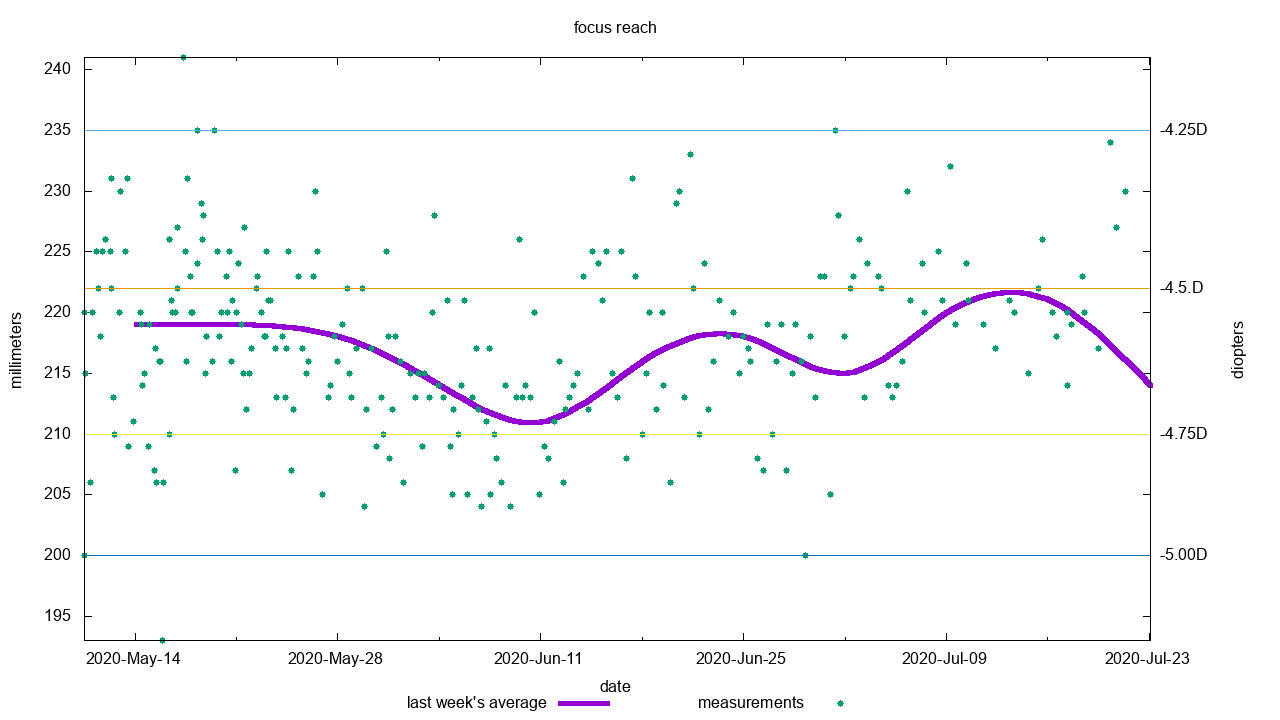
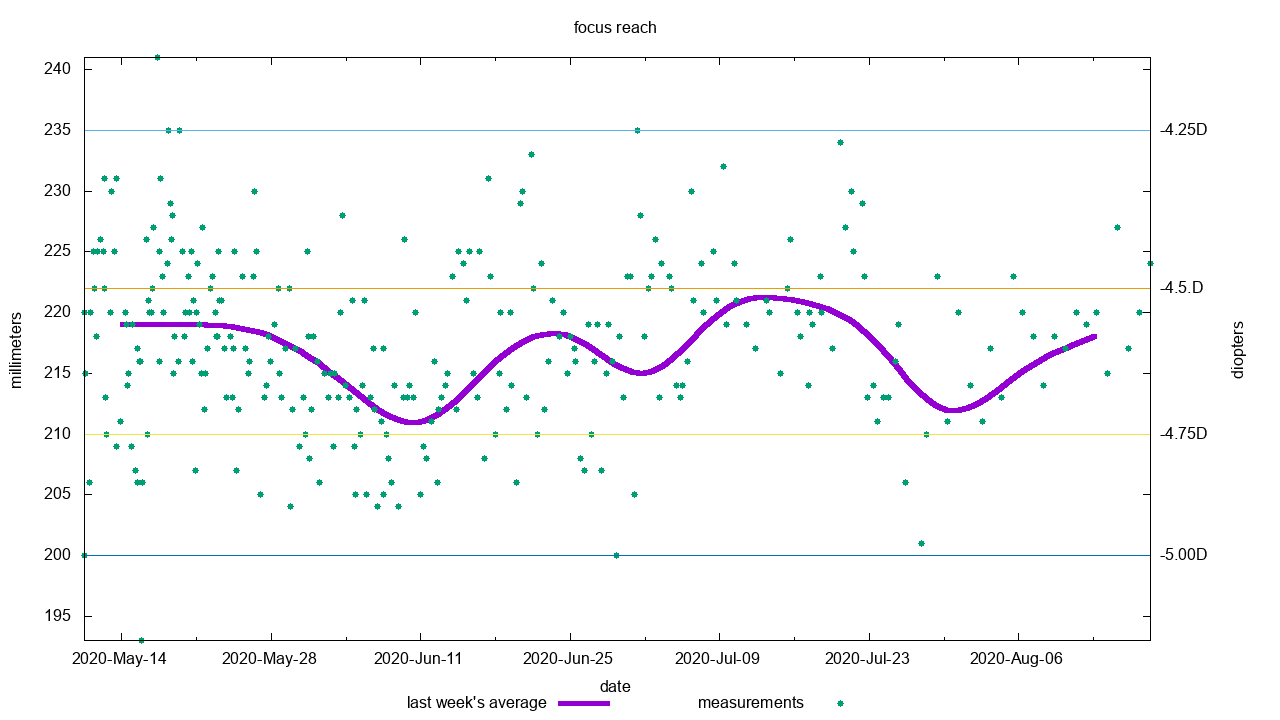
add data from optometrist (and my data too)

diff --git a/focusreach/readme.md b/focusreach/readme.md
@@ -39,4 +39,5 @@ i don't really know my previous data so i omitted it rather than guessing it.
 ```
 2019-Feb-01 sph:-4.75,-4.75 pd:33,33
 2019-Mar-20 started wearing -4.25D lenses
+2020-Aug-05 machine measurement: -4.50D both eyes, got same lenses too.
 ```
